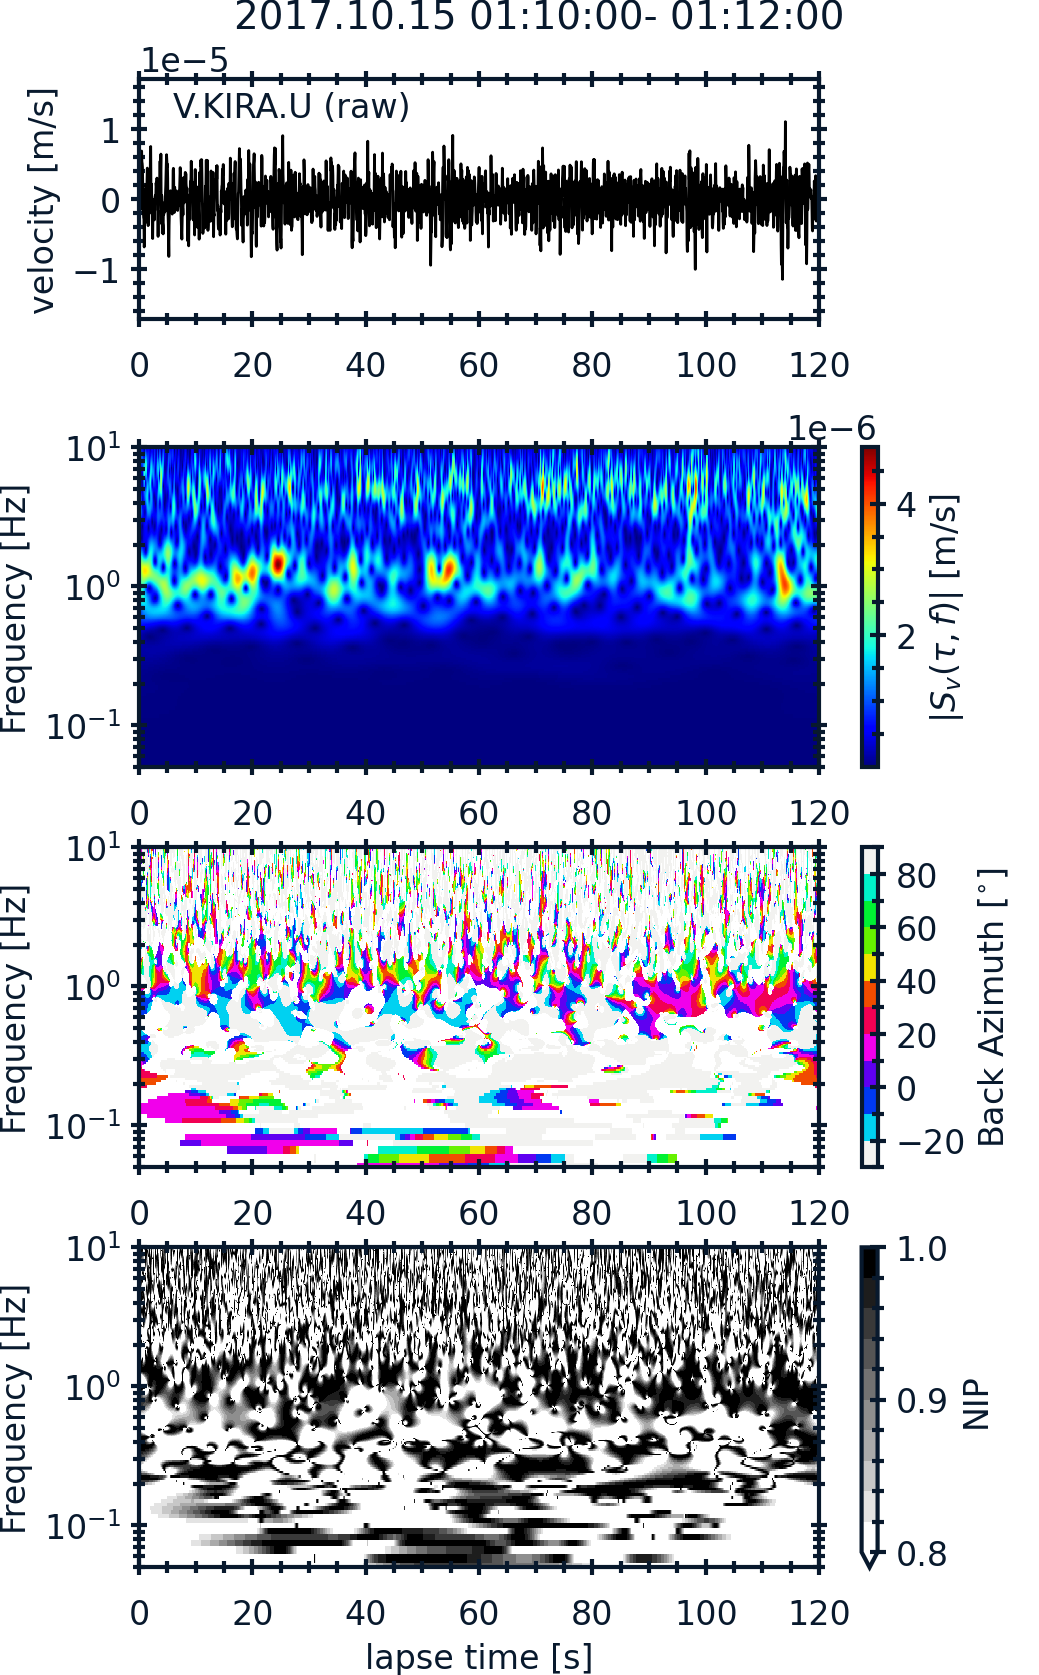
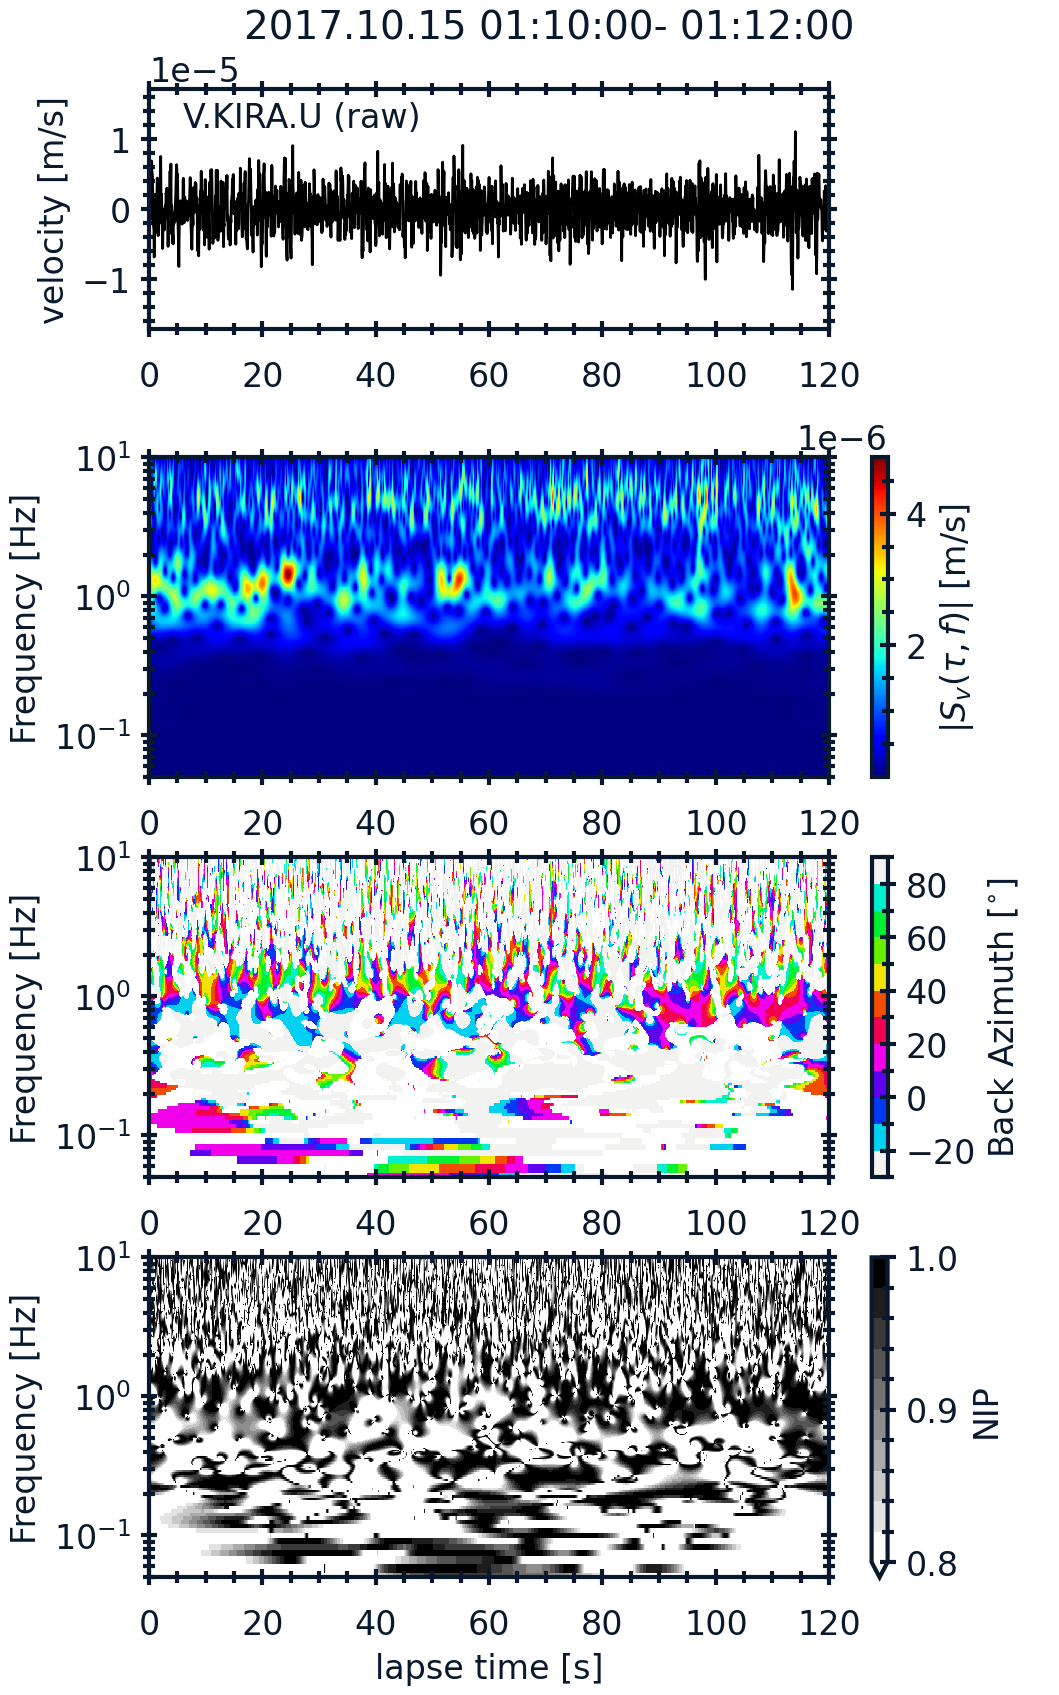
modified

Changed region(s): [[0.0, 0.0, 0.9856, 1.0], [0.0308, 0.031, 0.0616, 0.1863]]

diff --git a/example/polanalysis_example_120s.py b/example/polanalysis_example_120s.py
@@ -218,7 +218,7 @@ def plot_baz(windL, tr_Z, Fv, Tv, Sv, baz, nip):
 
     plt.suptitle(starttime.strftime("%Y.%m.%d %H:%M:%S")+'-'+(starttime+datetime.timedelta(seconds=windL)).strftime(" %H:%M:%S"), fontsize=14)
 
-    plt.savefig("../img/baz.png", bbox_inches='tight', pad_inches=0, dpi=200)
+    plt.savefig("../img/baz.png", bbox_inches='tight', pad_inches=0.05, dpi=200)
     plt.show()
     
     
